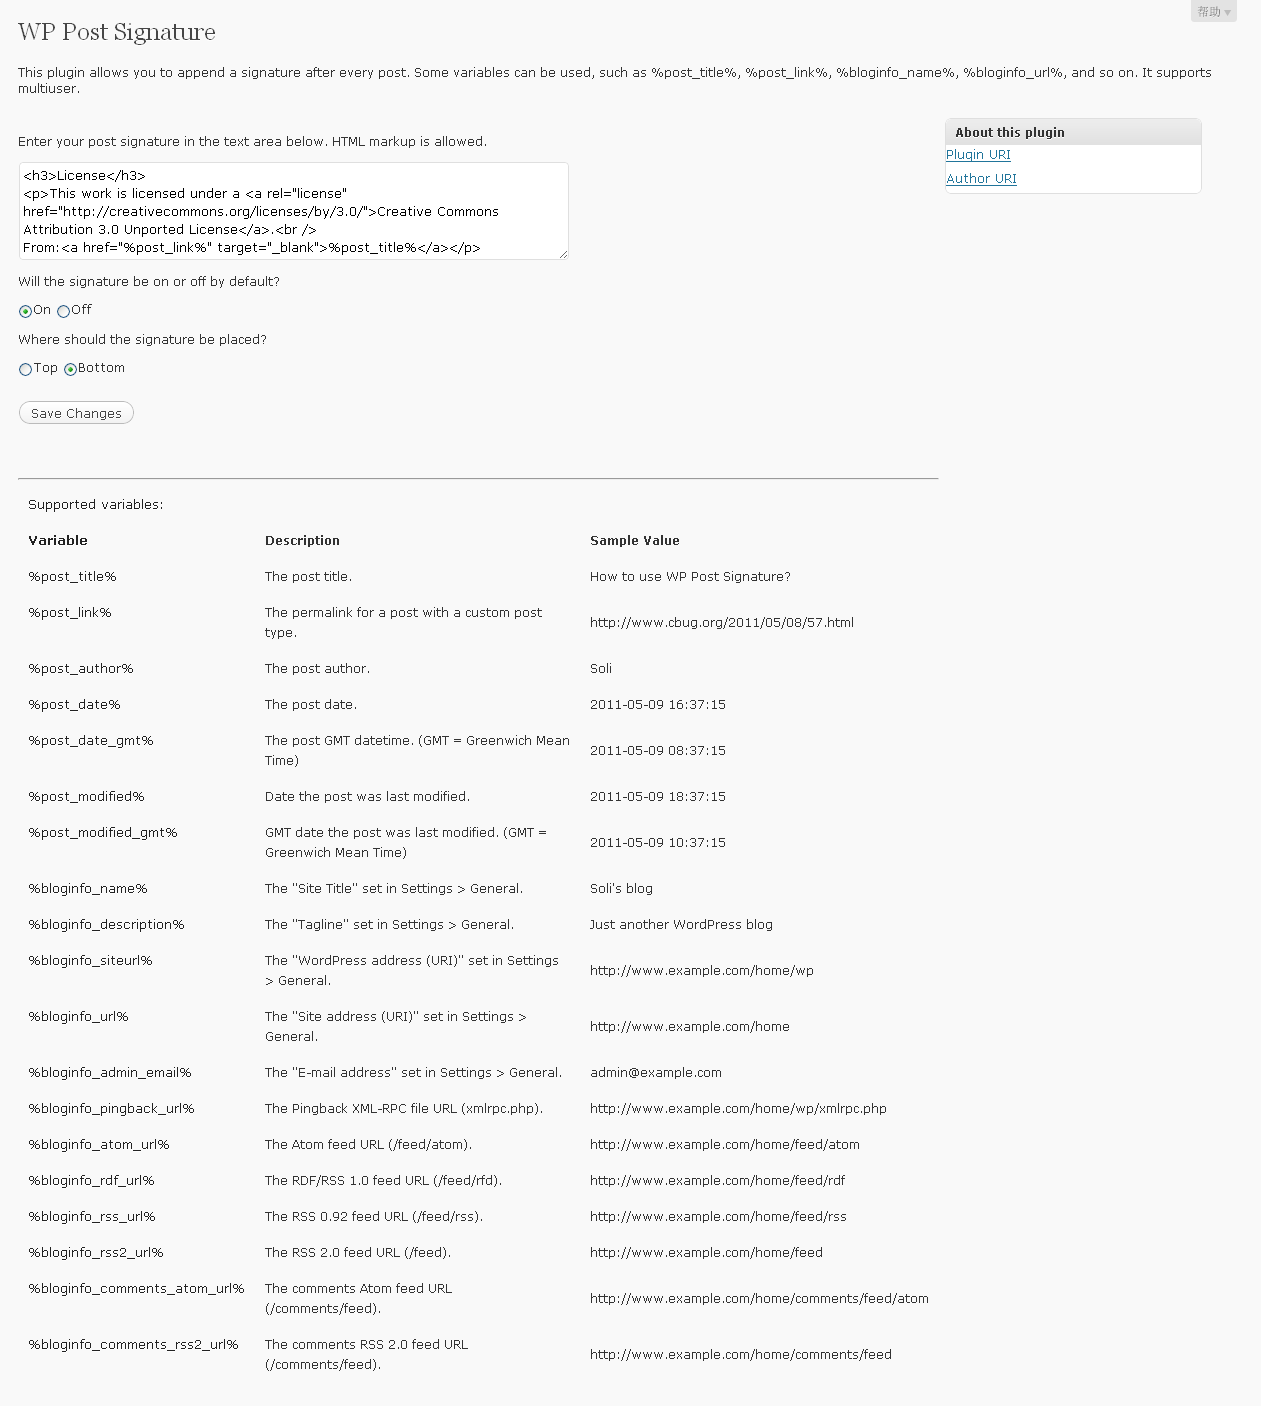
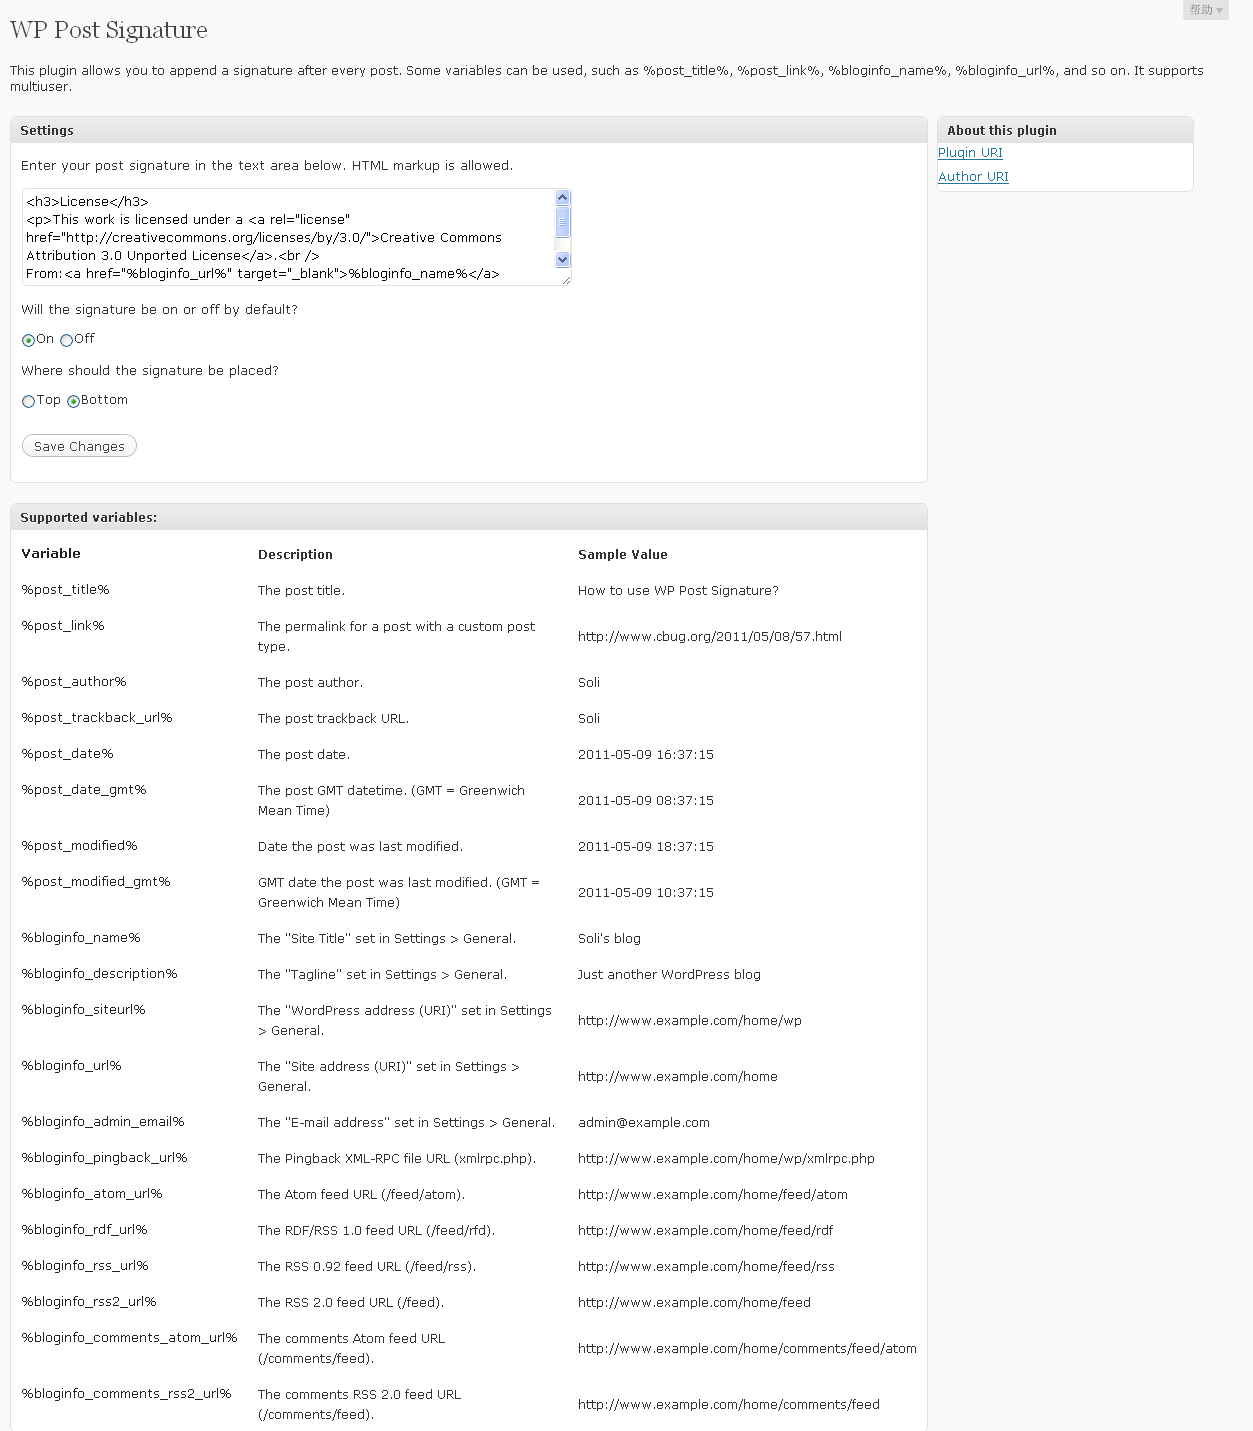
改进配置界面

diff --git a/wp-post-signature-page.php b/wp-post-signature-page.php
@@ -48,7 +48,8 @@ function WPPostSignature_Options_Page() {
 	<div class="meta-box-sortabless">
 
 	<!--setting-->
-	<div id="wpps-setting" class="tool-box">
+	<div id="wpps-setting" class="postbox">
+	<h3 class="hndle"><?php _e('Settings', 'wp-post-signature'); ?></h3>
 	<?php
 		global $current_user;
 		get_currentuserinfo();
@@ -56,6 +57,7 @@ function WPPostSignature_Options_Page() {
 		$current_signature = $wp_post_signature[$current_user->ID];
 	?>
 	<form method="post" action="<?php echo get_bloginfo("wpurl"); ?>/wp-admin/options-general.php?page=<?php echo plugin_basename(__FILE__); ?>">
+	<div style="padding-left: 10px;">
 	<input type="hidden" name="wpps_update_options" value="Y">
 
 	<p><?php _e('Enter your post signature in the text area below. HTML markup is allowed.', 'wp-post-signature'); ?></p>
@@ -71,17 +73,16 @@ function WPPostSignature_Options_Page() {
 	<p class="submit">
 	<input type="submit" name="Submit" value="<?php _e('Save Changes', 'wp-post-signature'); ?>" />
 	</p>
+	</div>
 	</form>
 	</div>
 	<!--setting end-->
 
 	<!--others-->
-	<hr />
-	<div id="wpps-desc">
+	<div id="wpps-info" class="postbox">
+	<h3 class="hndle"><?php _e('Supported variables:', 'wp-post-signature'); ?></h3>
 
 	<table class="form-table">
-	<tr><th><?php _e('Supported variables:', 'wp-post-signature'); ?></th></tr>
-
 	<tr>
 	<th scope="row"><b><?php _e('Variable', 'wp-post-signature'); ?></b></th>
 	<td><b><?php _e('Description', 'wp-post-signature'); ?></b></td>
